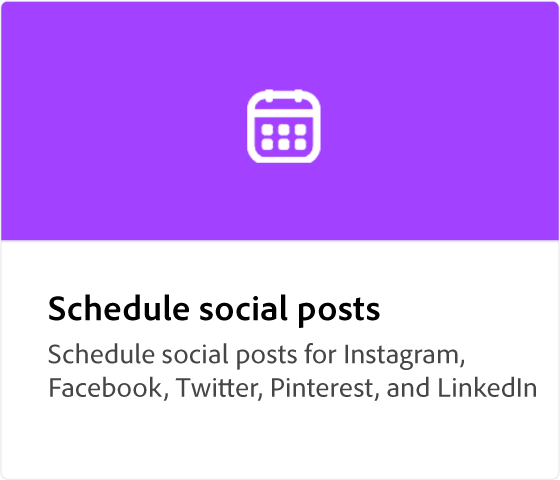
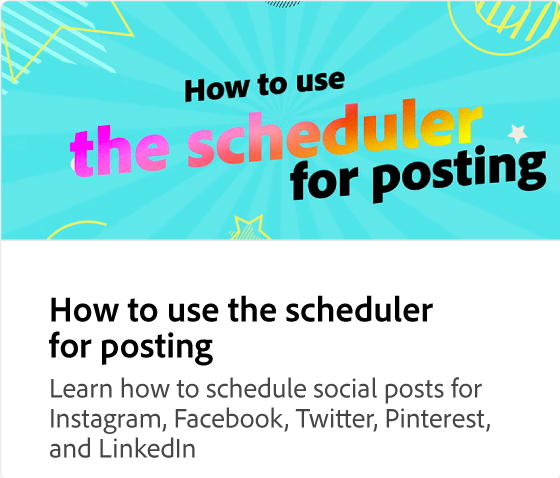
Express Advanced tutorials

diff --git a/help/express/overview-express-how-to.md b/help/express/overview-express-how-to.md
@@ -207,8 +207,52 @@ Get started creating amazing work that stands out with generative AI powered by 
 <table style="table-layout:fixed">
 <tr>
    <td>
+         <a href="remove-background.md">
+            <img alt="How to remove background from any image" src="assets/background.png" />
+         </a>
+   </td>
+   <td>
+         <a href="intro-gen-ai.md">
+            <img alt="What are the new Gen AI features in Adobe Express" src="assets/intro-gen-ai.png" />
+         </a>
+   </td>
+   <td>
+         <a href="object-eraser.md">
+            <img alt="How to use the object eraser tool" src="assets/object-eraser.png" />
+         </a>
+   </td>
+   <td>
+         <a href="generative-fill.md">
+            <img alt="How to use Generative Fill" src="assets/gen-fill.png" />
+         </a>
+   </td>      
+</tr>
+<tr>
+   <td>
+      <a href="gen-text.md">
+         <img alt="Improving your text design with Gen AI" src="assets/text-design.png" />
+      </a>
+   </td>
+   <td>
+      <a href="text-to-template.md">
+         <img alt="How to use Text-to-template Gen AI" src="assets/text-design.png" />
+      </a>
+   </td>
+   <td>
+      <a href="bulk-translate.md">
+         <img alt="How to bulk translate your content" src="assets/bulk-translate.png" />
+      </a>
+   </td>
+   <td>
+      <a href="edit-a-pdf.md">
+         <img alt="How to edit a PDF" src="assets/edit-pdf.png" />
+      </a>
+   </td>
+</tr>
+<tr>
+   <td>
       <a href="schedule.md">
-         <img alt="Schedule social posts" src="assets/schedule.png" />
+         <img alt="How to use the scheduler for posting" src="assets/schedule.png" />
       </a>
    </td>
    <td>
@@ -238,15 +282,15 @@ Get started creating amazing work that stands out with generative AI powered by 
          <img alt="Google Drive integration" src="assets/google-drive.png" />
       </a>
   </td>
-   <td>
-         <a href="remove-background.md">
-            <img alt="Remove background" src="assets/background.png" />
-         </a>
-   </td>
   <td>
          <a href="create-curved-text.md">
             <img alt="Create curved text" src="assets/curved-text.png" />
          </a>
    </td>
+   <td>
+    <img alt="Spacer" src="../assets/Gray-thumbnail.png" />
+    <div>
+    <br>
+  </td>
 </tr>
 </table>

diff --git a/help/TOC.md b/help/TOC.md
@@ -59,13 +59,20 @@ auto-video-transcripts: true
     + [Adding audio to your animations](express/audio-animation.md)
     + [How to resize your animations](express/resize-animations.md)
     + [Exporting your animations](express/export-animations.md)
-    + [Schedule social posts](express/schedule.md)
+    + [How to remove background from any image](express/remove-background.md)
+    + [What are the new Gen AI features in Adobe Express?](express/intro-gen-ai.md)
+    + [How to use the object eraser tool](express/object-eraser.md)
+    + [How to use Generative Fill](express/generative-fill.md)
+    + [Improving your text design with Gen AI](express/gen-text-fill.md)
+    + [How to use Text-to-template Gen AI](express/text-to-template.md)
+    + [How to bulk translate your content](express/bulk-translate.md)
+    + [How to edit a PDF](express/edit-a-pdf.md)
+    + [How to use the scheduler for posting](express/schedule.md)
     + [Create templates](express/create-templates.md)
     + [Group objects](express/group-objects.md)
     + [Create multiple pages](express/multiple-pages.md)
     + [Use CC Libraries](express/cc-libraries.md)
     + [Google Drive integration](express/google-drive.md)
-    + [How to remove a background from a photo in one click](express/remove-background.md)
     + [Refine a cutout](express/refine-cutout.md)
     + [Create curved text](express/create-curved-text.md)
   + Use case tutorials {#expressusecase}

diff --git a/help/express/remove-background.md b/help/express/remove-background.md
@@ -1,13 +1,14 @@
 ---
-title: How to remove a background from a photo in one click
-description: Learn how to remove the background from your pictures
+title: How to Remove Background from any Image
+description: Learn how to remove the background from your images in one click
 feature: Image Editing
 role: User
 level: Beginner
+jira: KT-13419
 exl-id: 9e1e95cc-0632-457a-b16c-ad87e89e8447
 ---
-# How to remove a background from a photo in one click
+# How to remove background from any image
 
-Learn how to remove the background from your pictures.
+Learn how to remove the background from your images in one click.
 
->[!VIDEO](https://video.tv.adobe.com/v/3423769?quality=12&learn=on&hidetitle=true)
+>[!VIDEO](https://video.tv.adobe.com/v/3420220?quality=12&learn=on&hidetitle=true)

diff --git a/help/express/bulk-translate.md b/help/express/bulk-translate.md
@@ -1,0 +1,13 @@
+---
+title: How to Bulk Translate your Content
+description: Learn how to bulk translate your content in seconds
+feature: Gen AI
+role: User
+level: Beginner
+jira: KT-14851
+---
+# How to bulk translate your content
+
+Learn how to eliminate the need for manual translations and the hassles of external translation tools by translating the text on single and multiple-page files into your choice of 46 languages.
+
+>[!VIDEO](https://video.tv.adobe.com/v/3427023?quality=12&learn=on&hidetitle=true)

diff --git a/help/express/text-to-template.md b/help/express/text-to-template.md
@@ -1,0 +1,13 @@
+---
+title: How to Use Text-to-Template Gen AI
+description: Learn how to generate editable templates from a text description within seconds
+feature: Gen AI, Graphic Design
+role: User
+level: Beginner
+jira: KT-14848
+---
+# How to use Text-to-template Gen AI
+
+Learn how to generate editable templates for social posts, posters, flyers, and cards from a text description within seconds.
+
+>[!VIDEO](https://video.tv.adobe.com/v/3427022?quality=12&learn=on&hidetitle=true)

diff --git a/help/express/edit-a-pdf.md b/help/express/edit-a-pdf.md
@@ -1,0 +1,12 @@
+---
+title: How to Edit a PDF
+description: Learn how to give your static, outdated PDFs a makeover by adding eye-catching text, images, brands, colors, animations, and more
+role: User
+level: Beginner
+jira: KT-14852
+---
+# How to edit a PDF
+
+Learn how to give your static, outdated PDFs a makeover by adding eye-catching text, images, brands, colors, animations, and more.
+
+>[!VIDEO](https://video.tv.adobe.com/v/3427024?quality=12&learn=on&hidetitle=true)

diff --git a/help/express/schedule.md b/help/express/schedule.md
@@ -1,12 +1,13 @@
 ---
-title: Schedule Social Posts
+title: How to Use the Scheduler for Posting
 description: Schedule social posts for Instagram, Facebook, Twitter, Pinterest, and LinkedIn
 feature: Share, Social Media
 role: User
 level: Beginner
+jira: KT-13430
 exl-id: f248c621-f50c-45c8-97de-4f28c7ea97f1
 ---
-# Schedule social posts
+# How to use the scheduler for posting
 
 Schedule social posts for Instagram, Facebook, Twitter, Pinterest, and LinkedIn.
 

diff --git a/help/express/gen-text-fill.md b/help/express/gen-text-fill.md
@@ -1,0 +1,13 @@
+---
+title: Improving your Text Design with Gen AI
+description: Learn how to create impactful designs using text effects powered by Adobe Firefly
+feature: Gen AI, Graphic Design
+role: User
+level: Beginner
+jira: KT-14847
+---
+# Improving your text design with Gen AI
+
+Learn how to create impactful designs using text effects powered by Adobe Firefly.
+
+>[!VIDEO](https://video.tv.adobe.com/v/3427021?quality=12&learn=on&hidetitle=true)

diff --git a/help/express/generative-fill.md b/help/express/generative-fill.md
@@ -1,0 +1,13 @@
+---
+title: How to Use Generative Fill
+description: Learn how to use Generative Fill, powered by Adobe Firefly, to add and remove elements from an image
+feature: Gen AI
+role: User
+level: Beginner
+jira: KT-14846
+---
+# How to use Generative Fill
+
+Learn how to use Generative Fill, powered by Adobe Firefly, to add and remove elements from an image.
+
+>[!VIDEO](https://video.tv.adobe.com/v/3427020?quality=12&learn=on&hidetitle=true)

diff --git a/help/express/intro-gen-ai.md b/help/express/intro-gen-ai.md
@@ -1,0 +1,13 @@
+---
+title: What are the New Gen AI Features in Adobe Express?
+description: Learn about the new Gen AI features in Adobe Express
+feature: Gen AI
+role: User
+level: Beginner
+jira: KT-14844
+---
+# What are the new Gen AI features in Adobe Express?
+
+Learn about the new Gen AI features in Adobe Express.
+
+>[!VIDEO](https://video.tv.adobe.com/v/3427018?quality=12&learn=on&hidetitle=true)

diff --git a/help/express/object-eraser.md b/help/express/object-eraser.md
@@ -1,0 +1,13 @@
+---
+title: How to Use the Object Eraser Tool
+description: Learn how to erase specific areas of your images
+feature: Image Editing
+role: User
+level: Beginner
+jira: KT-14845
+---
+# How to use the object eraser tool
+
+Learn how to erase specific areas of your images
+
+>[!VIDEO](https://video.tv.adobe.com/v/3427019?quality=12&learn=on&hidetitle=true)
